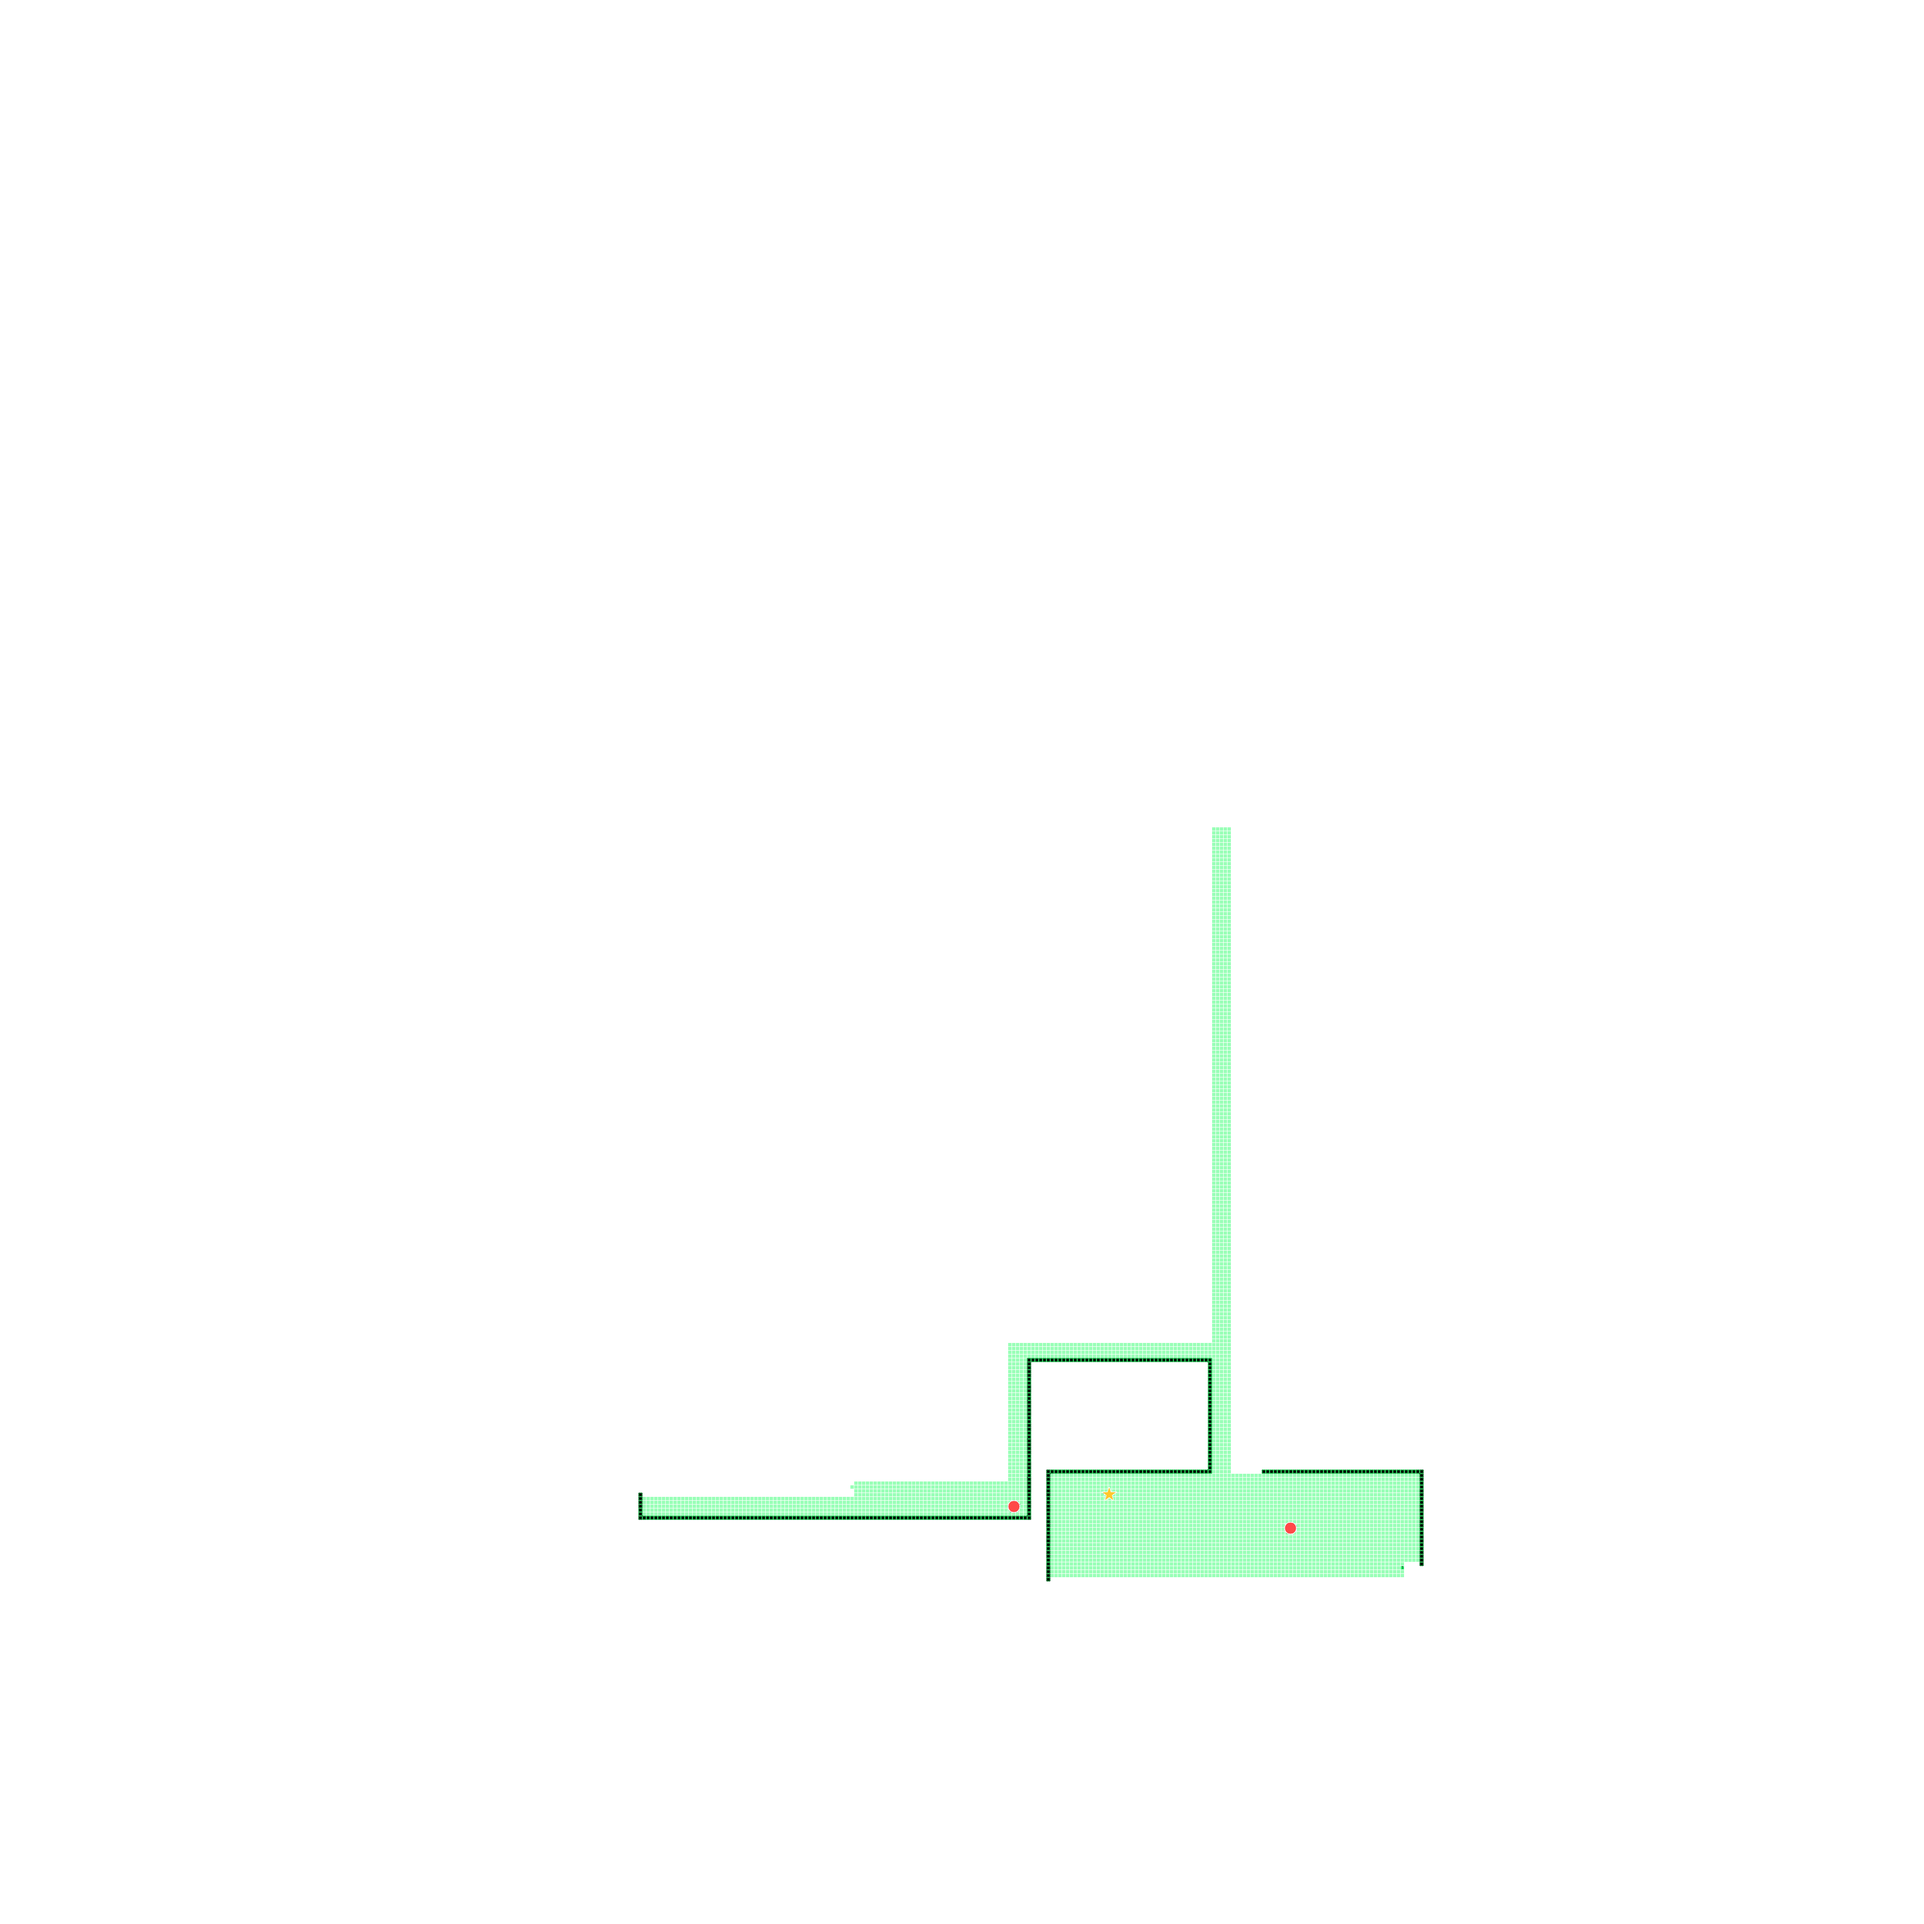
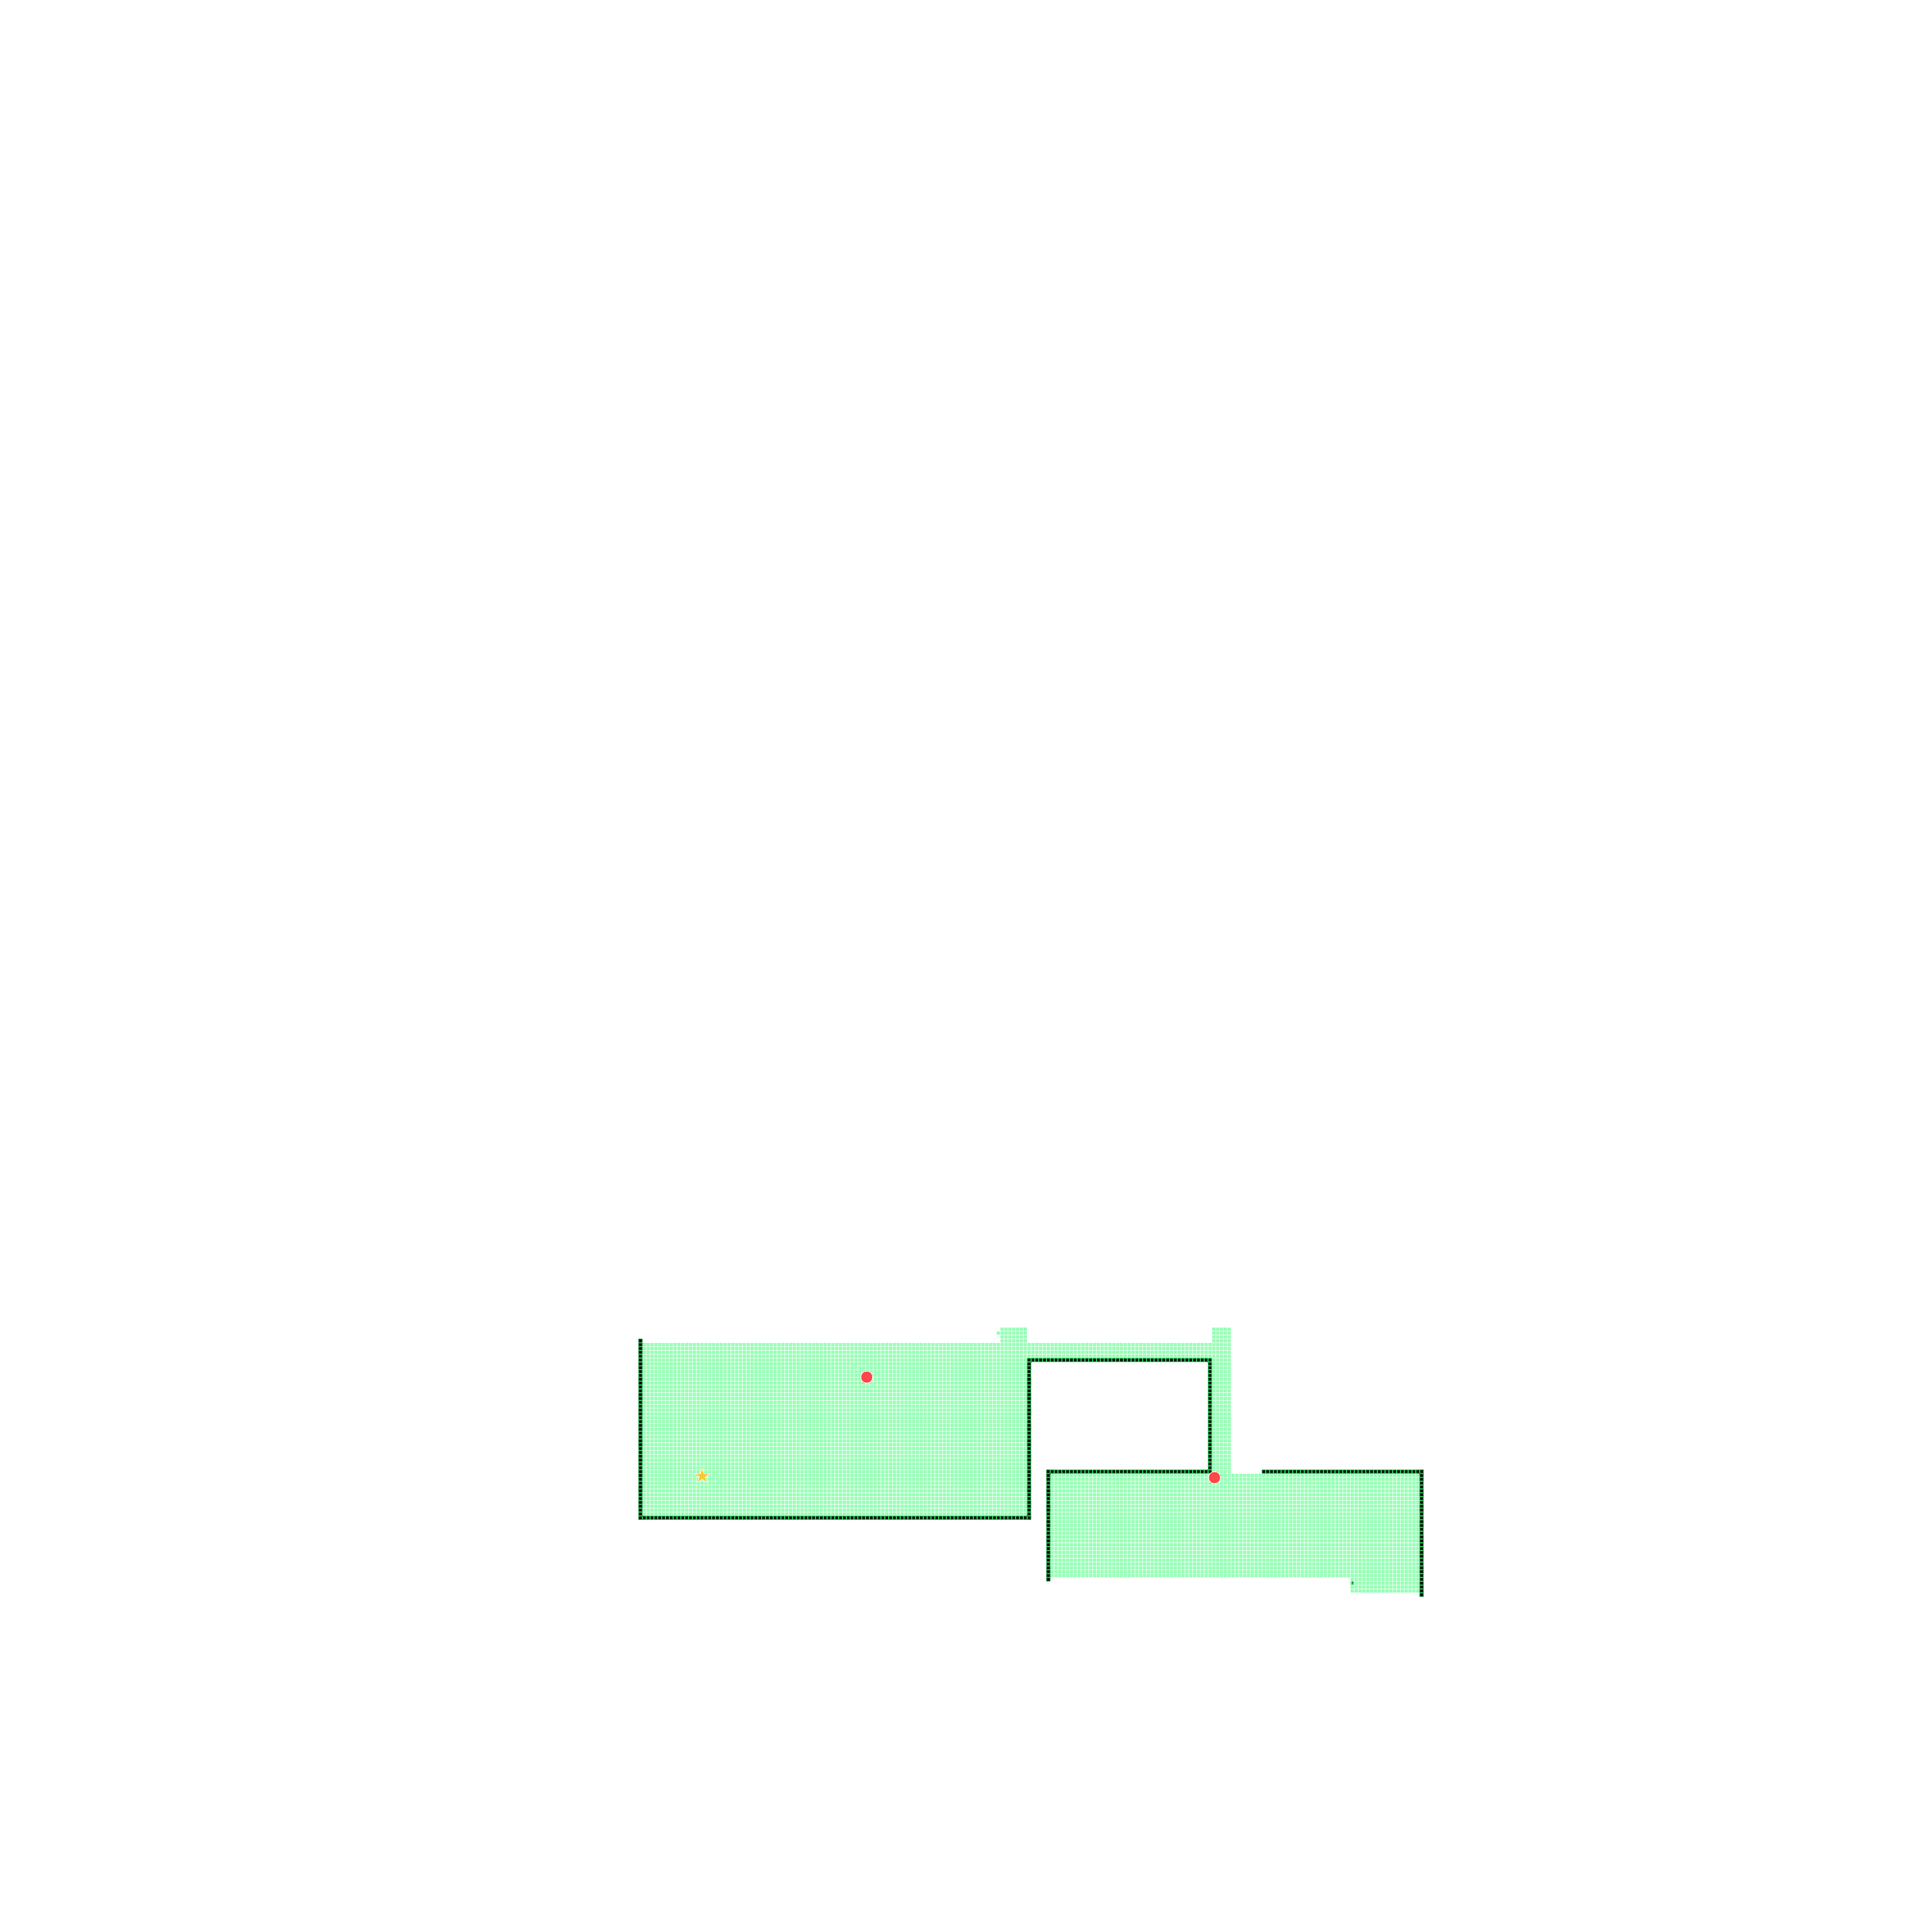
larger agent explored fake images

Changed region(s): [[0.3125, 0.6875, 0.5312, 0.7812], [0.625, 0.4375, 0.6562, 0.6875], [0.6875, 0.8125, 0.75, 0.8438]]

diff --git a/public/js/new_simulation.js b/public/js/new_simulation.js
@@ -69,16 +69,16 @@ var obstacleLocs = [
 ];
 
 var fakeBotImageScales = [
-	{ left:  96, right: 192, top: 158, bottom: 202 },
-	{ left:  96, right: 192, top: 197, bottom: 242 },
-	{ left: 166, right: 369, top: 198, bottom: 410 },
-	{ left: 272, right: 369, top: 405, bottom: 454 },
-	{ left: 272, right: 369, top: 213, bottom: 483 },
-	{ left: 281, right: 381, top:  49, bottom: 214 },
-	{ left: 281, right: 381, top:  84, bottom: 128 },
-	{ left: 281, right: 431, top:  92, bottom: 286 },
-	{ left: 335, right: 431, top: 281, bottom: 330 },
-	{ left: 335, right: 431, top: 325, bottom: 370 }
+	{ left:  96, right: 192, top: 158, bottom: 242 },
+	{ left:  96, right: 319, top: 201, bottom: 349 },
+	{ left: 166, right: 369, top: 345, bottom: 414 },
+	{ left: 272, right: 369, top: 207, bottom: 483 },
+	{ left: 281, right: 381, top:  49, bottom: 208 },
+	{ left: 281, right: 431, top:  92, bottom: 330 },
+	{ left: 331, right: 435, top: 264, bottom: 374 },
+	{ left:  96, right: 192, top: 158, bottom: 242 },
+	{ left:  96, right: 319, top: 201, bottom: 349 },
+	{ left: 166, right: 369, top: 345, bottom: 414 }
 ];
 
 var fakeAgentScores = [
